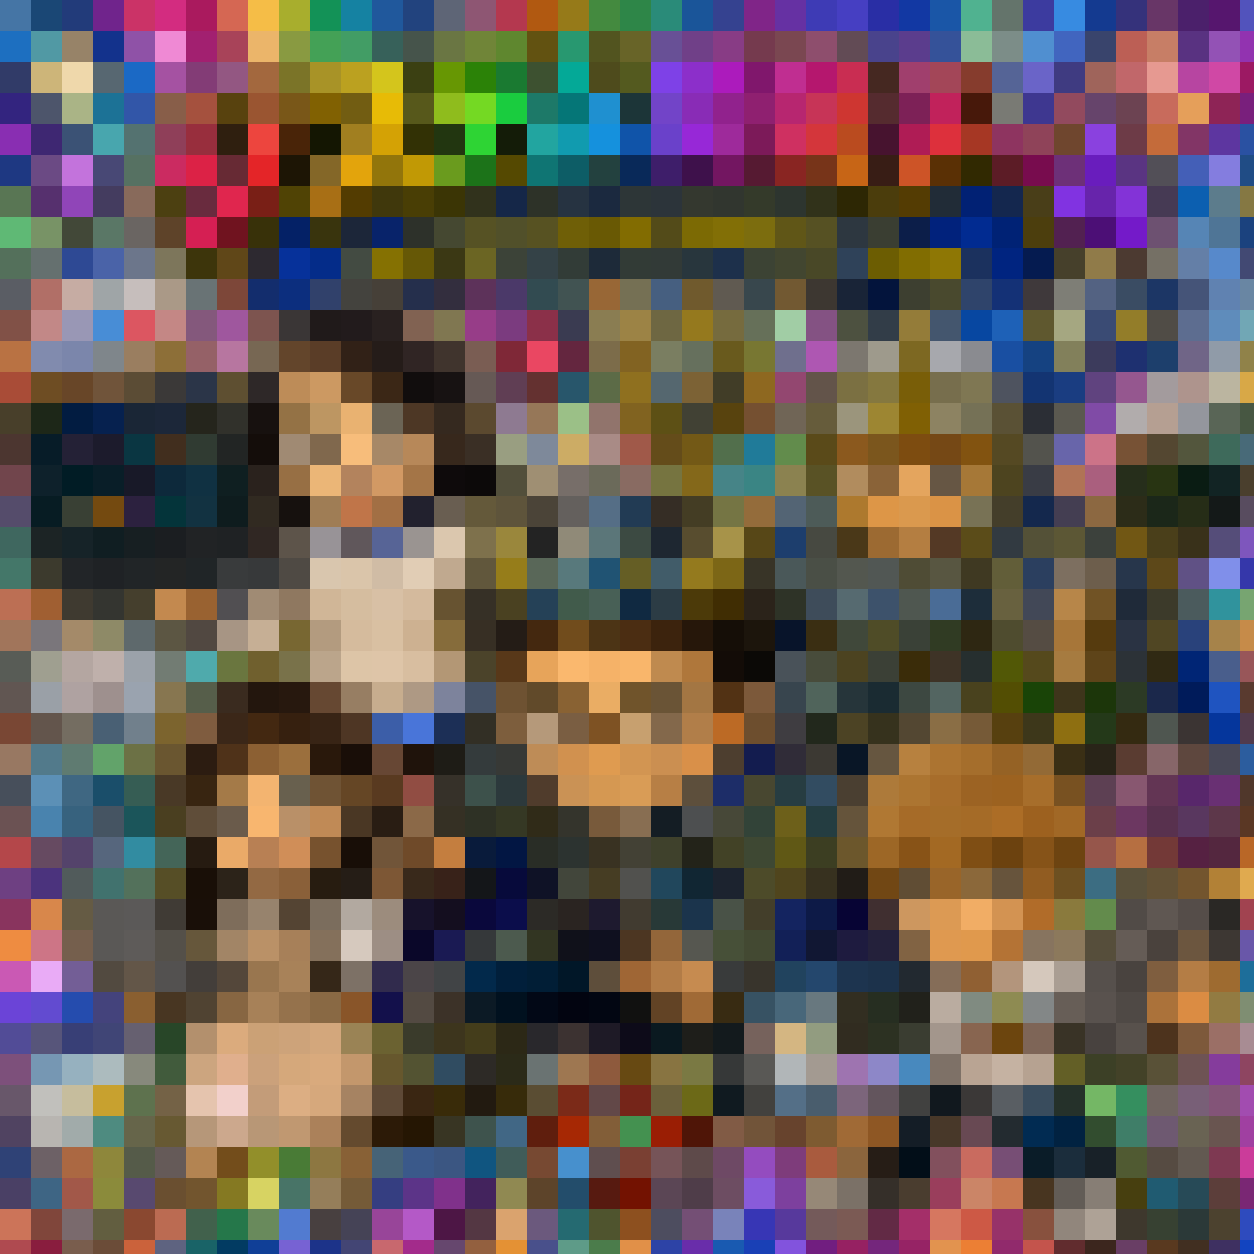
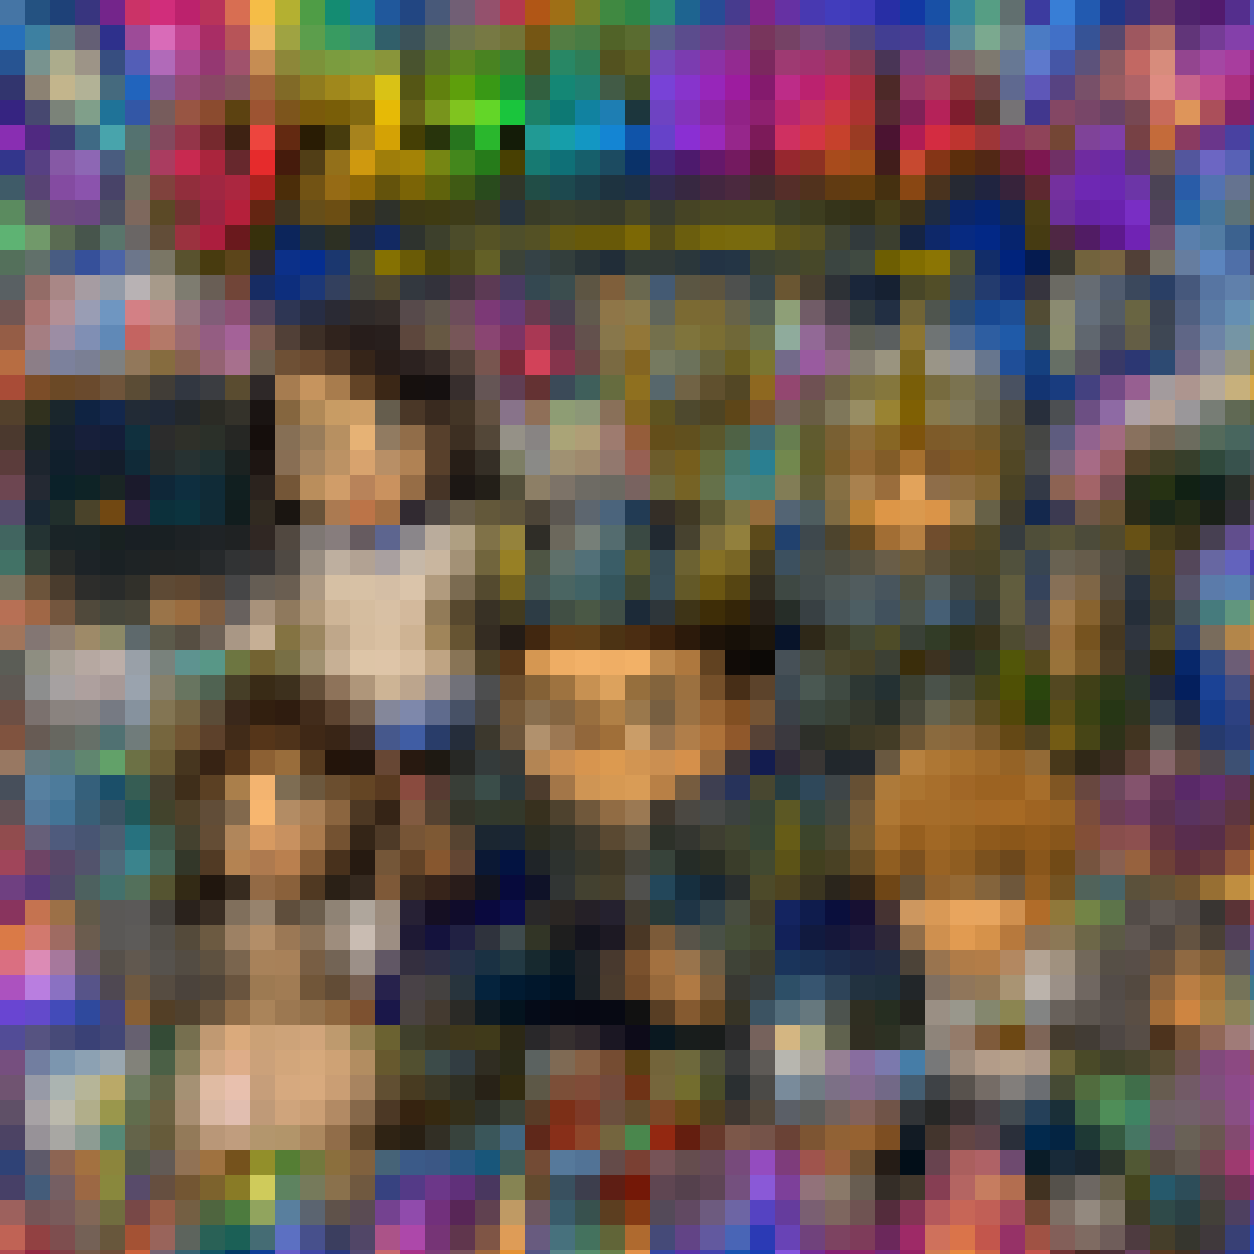
修正

diff --git a/index.html b/index.html
@@ -6,8 +6,8 @@
 <title>スピック、もっと、つなぐぞ。｜社員懇親会</title>
 <meta name="description" content="部署や役職、入社時期の垣根を越えて社員同士の会話が自然に生まれる機会をつくる、SPIC社員懇親会。2026年9月25日(金)、クルーズ船「セレブリティ2号」にて開催。">
 <link rel="icon" type="image/svg+xml" href="common/img/logo-smt.svg">
-<link rel="stylesheet" href="common/css/templates.css?v=6">
-<link rel="stylesheet" href="common/css/top.css?v=6">
+<link rel="stylesheet" href="common/css/templates.css?v=8">
+<link rel="stylesheet" href="common/css/top.css?v=8">
 </head>
 <body>
 
@@ -53,7 +53,7 @@
     <div class="hero__inner">
       <p class="hero__eyebrow">SPIC INTERNAL GATHERING</p>
       <h1 class="hero__title">スピック、もっと、<br class="sp-only">つなぐぞ。</h1>
-      <p class="hero__subtitle">部署間を越えた、コミュニケーション活性化</p>
+      <p class="hero__subtitle">部署を越えて、つながる時間。</p>
 
       <div class="hero__meta">
         <div class="hero__meta-item">
@@ -71,6 +71,13 @@
       <span>SCROLL</span>
       <span class="hero__scroll-line"></span>
     </div>
+
+    <details class="hero__update">
+      <summary class="hero__update-summary">最終更新：2026.09.09</summary>
+      <ul class="hero__update-list">
+        <li>2026.09.09　懇親会LP公開！</li>
+      </ul>
+    </details>
   </section>
 
   <!-- ============ ABOUT（この懇親会について） ============ -->
@@ -95,7 +102,8 @@
     <div class="container reveal">
       <p class="eyebrow">RECREATION DESIGN</p>
       <h2 class="h2-title">いつもの輪を越えて、<br class="sp-only">自然と会話が生まれる時間に。</h2>
-      <p class="recreation-text">歓談任せにせず、初対面でも参加しやすい導線を用意します。<br>レクリエーションは交流のための仕掛けです。</p>
+      <p class="recreation-text">歓談だけに任せず、誰でも自然に参加できるレクリエーションをご用意しました。<br>
+		  ちょっとしたきっかけから、普段あまり話す機会のない人との会話が生まれる。そんな時間を目指します。</p>
     </div>
   </section>
 
@@ -123,17 +131,22 @@
           </div>
 
           <p class="lead-text-block">
-            ノーマルデザイン10種類・レアデザイン2種類の全12種類のステッカーを用意し、乗船時に1人あたり同一種類のステッカーを10枚配布します。<br>
-            参加者同士でステッカーを交換し合いながら、できるだけ多くの種類を集めてもらいます。
-          </p>
-          <p class="lead-text-block">
-            初対面同士でも「交換しませんか？」の一言で自然に会話が始まるため、部署や年次を越えた交流のきっかけとして機能します。
+            ノーマル10種類・レア2種類、全12種類のステッカーをご用意しました。
+
+当日は、1人につき12枚のステッカーをお渡しします。
+参加者同士でステッカーを交換しながら、いろいろな種類を集めてみてください。
+
+「交換しませんか？」のひと言をきっかけに、普段あまり話す機会のない人とも自然と会話が生まれるかも。
+
+どんなステッカーに出会えるか、何種類集められるかは当日のお楽しみ。
+レアステッカーを見つけられたらラッキー……！？
           </p>
           <p class="lead-text-block" style="font-size: 1.2em;">
-            <b>この機会に、目指せコンプリート！！</b>
+            <b>交換しながら、たくさん集めてみよう！<br>
+				全12種類、目指せコンプリート！！</b>
           </p>
-          <p class="lead-text-block" style="font-size: 0.8em; color: var(--color-brand);">
-            ※カメラマンさんに撮影してもらうと、ゲットできるという噂も……？？
+          <p class="lead-text-block" style="font-size: 0.8em; color: var(--color-brand);">※枚数には限りがあります<br>
+			  ※実はカメラマンさんも、ステッカーを持っているとかいないとか……？？
           </p>
         </div>
 
@@ -278,6 +291,9 @@
                 <img src="common/img/venue/DSC09195_2000x1333-1536x1024-1.jpg.webp" alt="前方デッキからの眺め" loading="lazy">
                 <figcaption class="venue-carousel__caption">出典：<a href="https://www.anniversary-cruise.com/cruiser-type/recommended-cruiser/celebrity2/" target="_blank" rel="noopener">アニバーサリークルーズ</a></figcaption>
               </figure>
+              <figure class="venue-carousel__slide">
+                <img src="common/img/venue/celebrity2-7.jpg" alt="クルーズ船「セレブリティ2号」の様子" loading="lazy">
+              </figure>
             </div>
           </div>
           <div class="venue-carousel__controls">
@@ -311,6 +327,10 @@
           </tr>
           <tr>
             <th>16:00</th>
+            <td>クルーズ船をバックに写真撮影📷</td>
+          </tr>
+          <tr>
+            <th>16:05&#8211;16:10</th>
             <td>乗船開始／ステッカー（1人12枚）を配布</td>
           </tr>
           <tr>
@@ -323,7 +343,8 @@
           </tr>
           <tr>
             <th>17:45&#8211;17:55</th>
-            <td>集合写真撮影・閉会挨拶・下船案内</td>
+            <td>甲板での集合写真撮影📷<br>
+				閉会挨拶・下船案内</td>
           </tr>
           <tr>
             <th>18:00</th>
@@ -391,8 +412,14 @@
         </div>
         <div class="faq-item">
           <dt class="faq-item__q">酔い止め薬はいつ頃もらえますか？</dt>
-          <dd class="faq-item__a">給与会議の辺りを想定しています。決まりましたらまたお知らせします。</dd>
+          <dd class="faq-item__a">給与会議会場での配布を予定しています。※詳細決まりましたらまたお知らせします。<br>
+			  お水が必要だと思いますので、早めに欲しい等ございましたら別途ご相談ください。</dd>
         </div>
+        <div class="faq-item">
+          <dt class="faq-item__q">酔い止め薬はいつ頃飲めばいいですか？</dt>
+          <dd class="faq-item__a"> 乗る30分前に飲むことで、安定した効果を発揮します。<br>お水は各自ご用意ください。</dd>
+        </div>
+		 
         <div class="faq-item">
           <dt class="faq-item__q">何か気を付けることはありますか？</dt>
           <dd class="faq-item__a">酔いやすい方はオレンジジュースを控えていただければと思います。</dd>

diff --git a/common/css/top.css b/common/css/top.css
@@ -110,6 +110,52 @@ main section[id] {
   100% { transform: scaleY(0); transform-origin: bottom; }
 }
 
+.hero__update {
+  position: absolute;
+  right: 24px;
+  bottom: 24px;
+  z-index: 2;
+  font-size: 0.75rem;
+  color: rgba(255, 255, 255, 0.85);
+  text-align: right;
+}
+
+.hero__update-summary {
+  display: inline-block;
+  cursor: pointer;
+  list-style: none;
+  padding: 6px 16px;
+  border: 1px solid rgba(255, 255, 255, 0.35);
+  border-radius: 999px;
+  background: rgba(255, 255, 255, 0.08);
+  white-space: nowrap;
+}
+
+.hero__update-summary::-webkit-details-marker {
+  display: none;
+}
+
+.hero__update-summary::marker {
+  content: "";
+}
+
+.hero__update-list {
+  margin-top: 8px;
+  padding: 12px 16px;
+  background: rgba(7, 22, 48, 0.6);
+  border-radius: 10px;
+  text-align: left;
+}
+
+.hero__update-list li {
+  margin-bottom: 6px;
+  line-height: 1.5;
+}
+
+.hero__update-list li:last-child {
+  margin-bottom: 0;
+}
+
 /* ---------- why (この懇親会について) ---------- */
 .section-why {
   background: var(--color-white);
@@ -642,6 +688,20 @@ main section[id] {
   .hero {
     min-height: 60vh;
     padding-top: 76px;
+  }
+
+  .hero__update {
+    right: 12px;
+    bottom: 12px;
+    font-size: 0.6875rem;
+  }
+
+  .hero__update-summary {
+    padding: 5px 12px;
+  }
+
+  .hero__update-list {
+    max-width: 220px;
   }
 
   .hero__title {

diff --git a/common/css/templates.css b/common/css/templates.css
@@ -8,7 +8,7 @@
   --color-sky-pale: #eaf6ff;
   --color-accent: #c94709;
   --color-accent-dark: #a83a07;
-  --color-accent-light: #f4a869;
+  --color-accent-light: #ffc300;
   --color-accent-bright: #ff9f43;
   --color-accent-bright-dark: #ff7f2a;
   --color-ocean-light: #1670bc;
